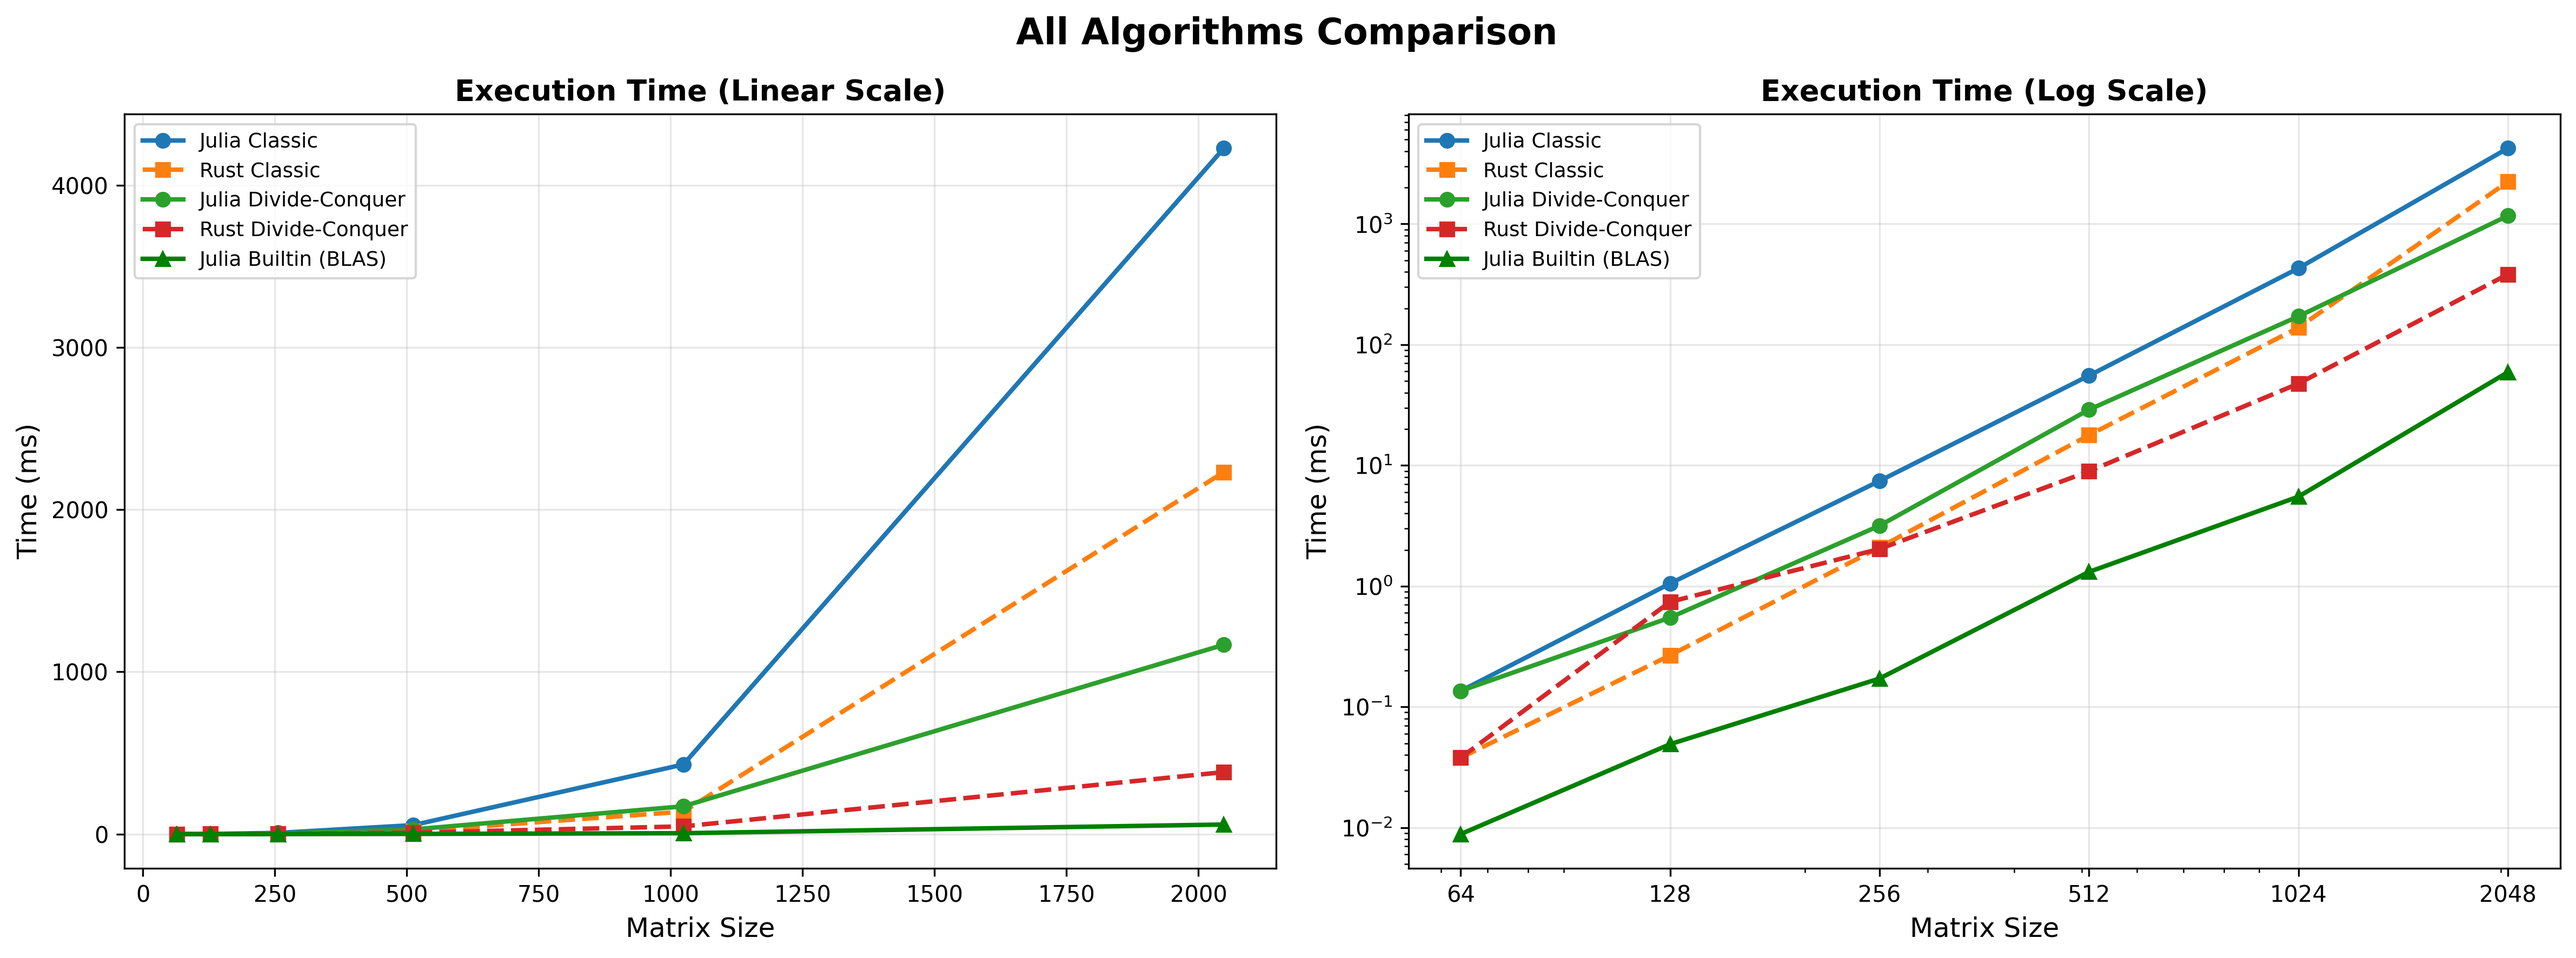
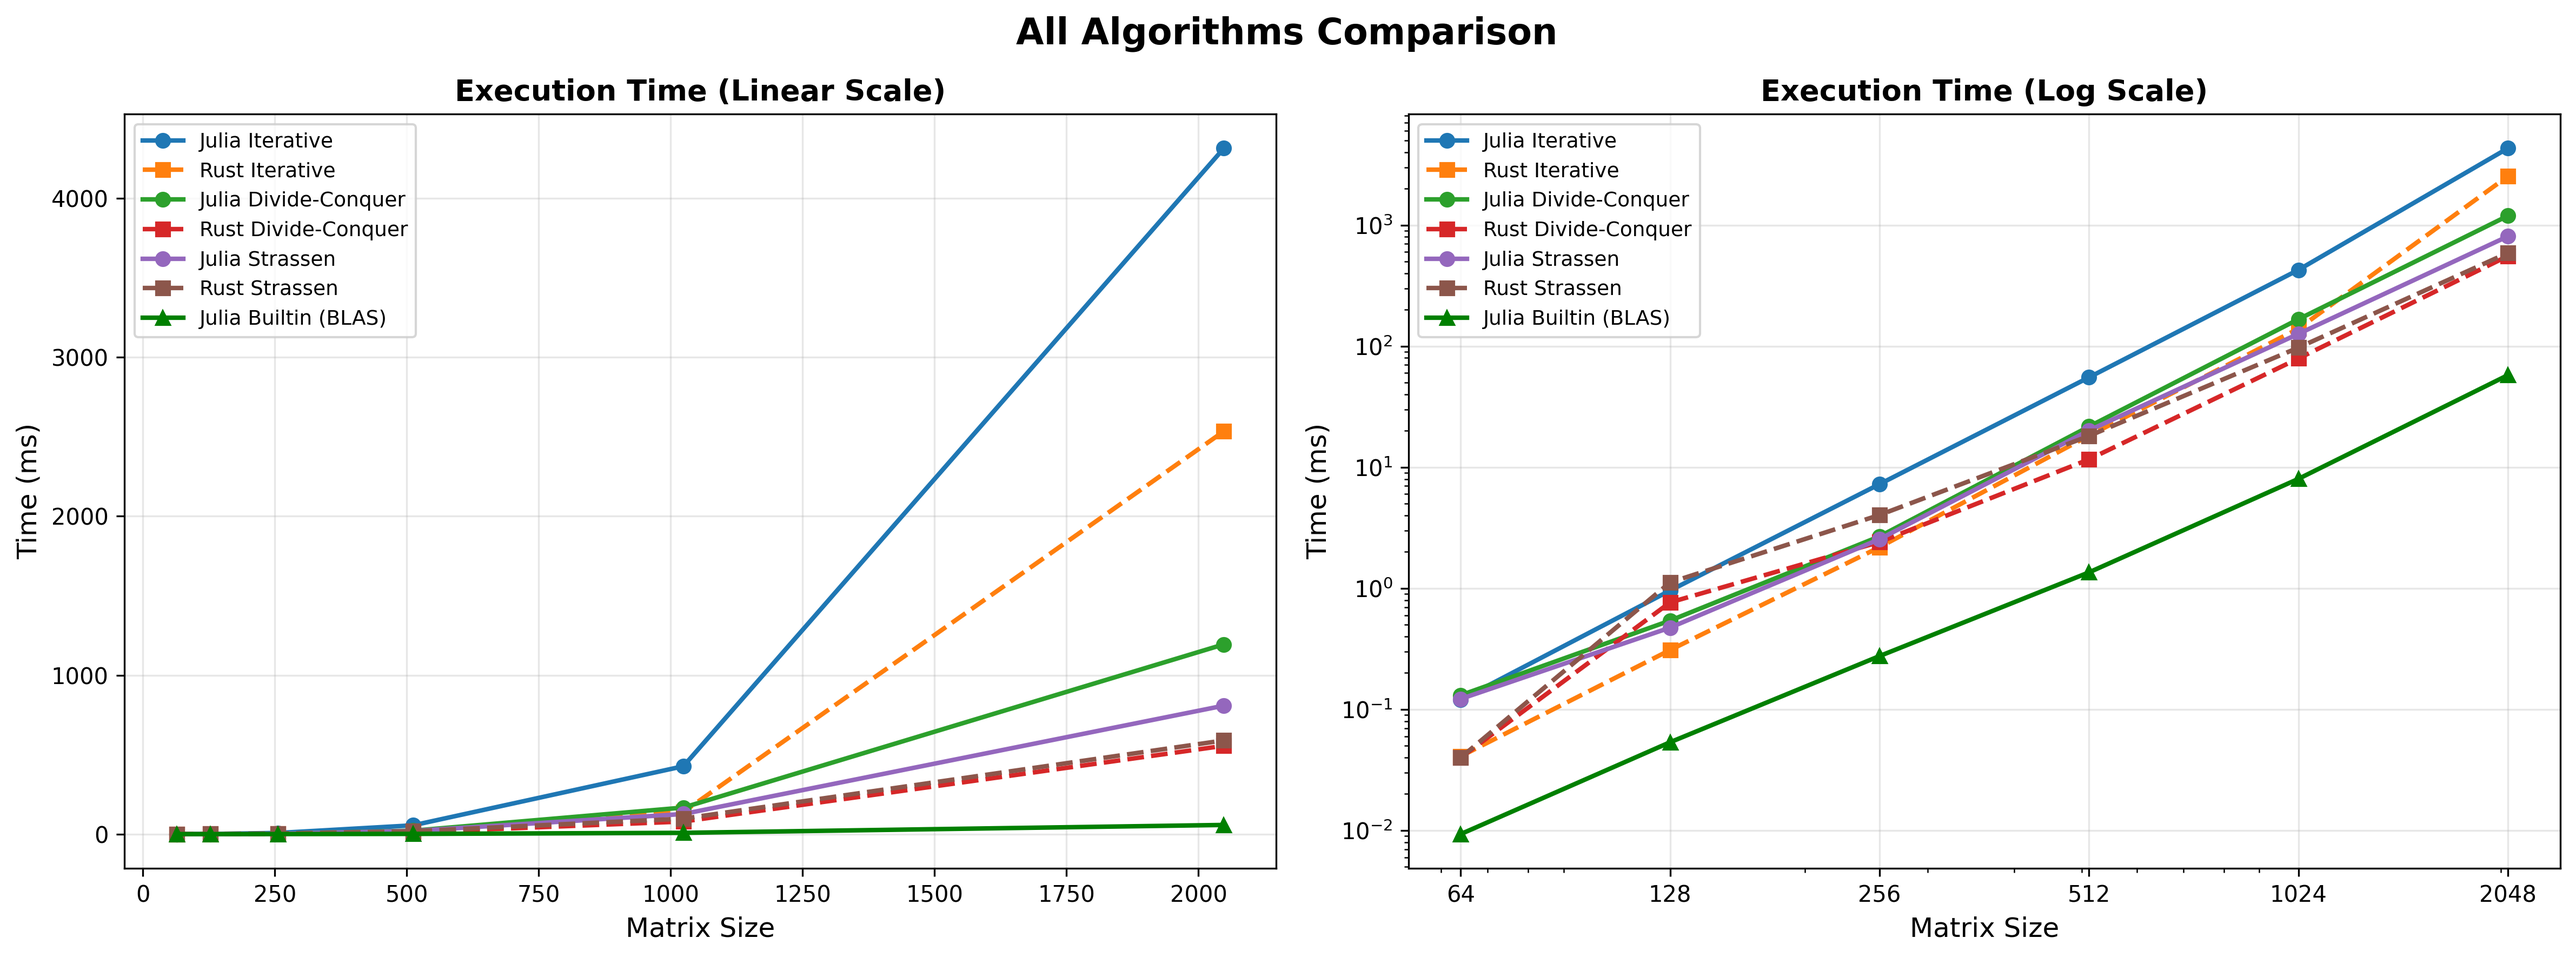
Adds new plots

diff --git a/plot/compare_benchmarks.py b/plot/compare_benchmarks.py
@@ -37,17 +37,18 @@ julia_df['language'] = 'Julia'
 rust_df['language'] = 'Rust'
 
 # Get unique algorithms (excluding Julia-Builtin which is Julia-only)
-algorithms = ['Classic', 'Divide-Conquer']
+algorithms = ['Iterative', 'Divide-Conquer', 'Strassen']
 
 # Create plots for each algorithm
 for algorithm in algorithms:
+    # Time comparison plots
     fig, (ax1, ax2) = plt.subplots(1, 2, figsize=(16, 6))
 
     # Add thread info to title for Divide-Conquer
-    if algorithm == 'Divide-Conquer':
-        title = f'{algorithm} Matrix Multiplication: Rust vs Julia ({julia_thread_count} threads)'
+    if algorithm == 'Iterative':
+        title = f'{algorithm} algorithm'
     else:
-        title = f'{algorithm} Matrix Multiplication: Rust vs Julia'
+        title = f'{algorithm} algorithm ({julia_thread_count} threads)'
 
     fig.suptitle(title, fontsize=16, fontweight='bold')
 
@@ -55,7 +56,7 @@ for algorithm in algorithms:
     julia_data = julia_df[julia_df['algorithm'] == algorithm]
     rust_data = rust_df[rust_df['algorithm'] == algorithm]
 
-    # Plot 1: Linear Scale
+    # Plot 1: Linear Scale (Time)
     julia_label = 'Julia'
     rust_label = 'Rust'
 
@@ -71,7 +72,7 @@ for algorithm in algorithms:
     ax1.set_xticks(julia_data['size'])
     ax1.set_xticklabels(julia_data['size'])
 
-    # Plot 2: Log Scale
+    # Plot 2: Log Scale (Time)
     ax2.plot(julia_data['size'], julia_data['time_ms'],
              marker='o', linewidth=2, markersize=8, label=julia_label, color='#9558B2')
     ax2.plot(rust_data['size'], rust_data['time_ms'],
@@ -83,23 +84,46 @@ for algorithm in algorithms:
     ax2.grid(True, alpha=0.3)
     ax2.set_yscale('log')
     ax2.set_xscale('log')
-    # ax2.set_xticks(julia_data['size'])
-    # ax2.set_xticklabels(julia_data['size'])
+    ax2.set_xticks(julia_data['size'])
+    ax2.set_xticklabels(julia_data['size'])
 
     plt.tight_layout()
 
-    # Save plot
+    # Save time comparison plot
     output_file = os.path.join(OUTPUT_DIR, f'{algorithm.lower().replace("-", "_")}_comparison.png')
     plt.savefig(output_file, dpi=300, bbox_inches='tight')
     print(f"Saved: {output_file}")
     plt.close()
 
-# Create a combined plot with Julia builtin
+    # Memory comparison plot (separate)
+    fig, ax = plt.subplots(1, 1, figsize=(10, 6))
+    fig.suptitle(f'{algorithm} algorithm: Memory Usage', fontsize=16, fontweight='bold')
+
+    ax.plot(julia_data['size'], julia_data['memory_mb'],
+            marker='o', linewidth=2, markersize=8, label=julia_label, color='#9558B2')
+    ax.plot(rust_data['size'], rust_data['memory_mb'],
+            marker='s', linewidth=2, markersize=8, label=rust_label, color='#CE422B')
+    ax.set_xlabel('Matrix Size', fontsize=12)
+    ax.set_ylabel('Memory (MB)', fontsize=12)
+    ax.legend(fontsize=11)
+    ax.grid(True, alpha=0.3)
+    ax.set_xticks(julia_data['size'])
+    ax.set_xticklabels(julia_data['size'])
+
+    plt.tight_layout()
+
+    # Save memory plot
+    output_file = os.path.join(OUTPUT_DIR, f'{algorithm.lower().replace("-", "_")}_memory.png')
+    plt.savefig(output_file, dpi=300, bbox_inches='tight')
+    print(f"Saved: {output_file}")
+    plt.close()
+
+# Create a combined time comparison plot with Julia builtin
 fig, (ax1, ax2) = plt.subplots(1, 2, figsize=(16, 6))
 fig.suptitle('All Algorithms Comparison', fontsize=16, fontweight='bold')
 
-# Plot 1: Linear Scale
-for algorithm in ['Classic', 'Divide-Conquer']:
+# Plot 1: Linear Scale (Time)
+for algorithm in ['Iterative', 'Divide-Conquer', 'Strassen']:
     julia_data = julia_df[julia_df['algorithm'] == algorithm]
     rust_data = rust_df[rust_df['algorithm'] == algorithm]
 
@@ -119,11 +143,9 @@ ax1.set_ylabel('Time (ms)', fontsize=12)
 ax1.set_title('Execution Time (Linear Scale)', fontsize=13, fontweight='bold')
 ax1.legend(fontsize=9)
 ax1.grid(True, alpha=0.3)
-# ax1.set_xticks(julia_builtin['size'])
-# ax1.set_xticklabels(julia_builtin['size'])
 
-# Plot 2: Log Scale
-for algorithm in ['Classic', 'Divide-Conquer']:
+# Plot 2: Log Scale (Time)
+for algorithm in ['Iterative', 'Divide-Conquer', 'Strassen']:
     julia_data = julia_df[julia_df['algorithm'] == algorithm]
     rust_data = rust_df[rust_df['algorithm'] == algorithm]
 
@@ -149,6 +171,35 @@ ax2.set_xticklabels(julia_builtin['size'])
 
 plt.tight_layout()
 output_file = os.path.join(OUTPUT_DIR, 'all_algorithms_comparison.png')
+plt.savefig(output_file, dpi=300, bbox_inches='tight')
+print(f"Saved: {output_file}")
+plt.close()
+
+# Create a combined memory comparison plot
+fig, ax = plt.subplots(1, 1, figsize=(10, 6))
+fig.suptitle('All Algorithms Memory Usage', fontsize=16, fontweight='bold')
+
+for algorithm in ['Iterative', 'Divide-Conquer', 'Strassen']:
+    julia_data = julia_df[julia_df['algorithm'] == algorithm]
+    rust_data = rust_df[rust_df['algorithm'] == algorithm]
+
+    ax.plot(julia_data['size'], julia_data['memory_mb'],
+            marker='o', linewidth=2, markersize=6, label=f'Julia {algorithm}', linestyle='-')
+    ax.plot(rust_data['size'], rust_data['memory_mb'],
+            marker='s', linewidth=2, markersize=6, label=f'Rust {algorithm}', linestyle='--')
+
+# Add Julia builtin memory
+ax.plot(julia_builtin['size'], julia_builtin['memory_mb'],
+        marker='^', linewidth=2, markersize=6, label='Julia Builtin (BLAS)',
+        color='green', linestyle='-')
+
+ax.set_xlabel('Matrix Size', fontsize=12)
+ax.set_ylabel('Memory (MB)', fontsize=12)
+ax.legend(fontsize=9)
+ax.grid(True, alpha=0.3)
+
+plt.tight_layout()
+output_file = os.path.join(OUTPUT_DIR, 'all_algorithms_memory.png')
 plt.savefig(output_file, dpi=300, bbox_inches='tight')
 print(f"Saved: {output_file}")
 plt.close()

diff --git a/plot/README.md b/plot/README.md
@@ -26,7 +26,7 @@ python compare_benchmarks.py
 ```
 
 This will generate three plots in the `../results` directory:
-- `classic_comparison.png` - Classic algorithm comparison
+- `iterative_comparison.png` - Iterative algorithm comparison
 - `divide_conquer_comparison.png` - Divide-and-conquer algorithm comparison (with thread count)
 - `all_algorithms_comparison.png` - Combined comparison including Julia's BLAS implementation
 
